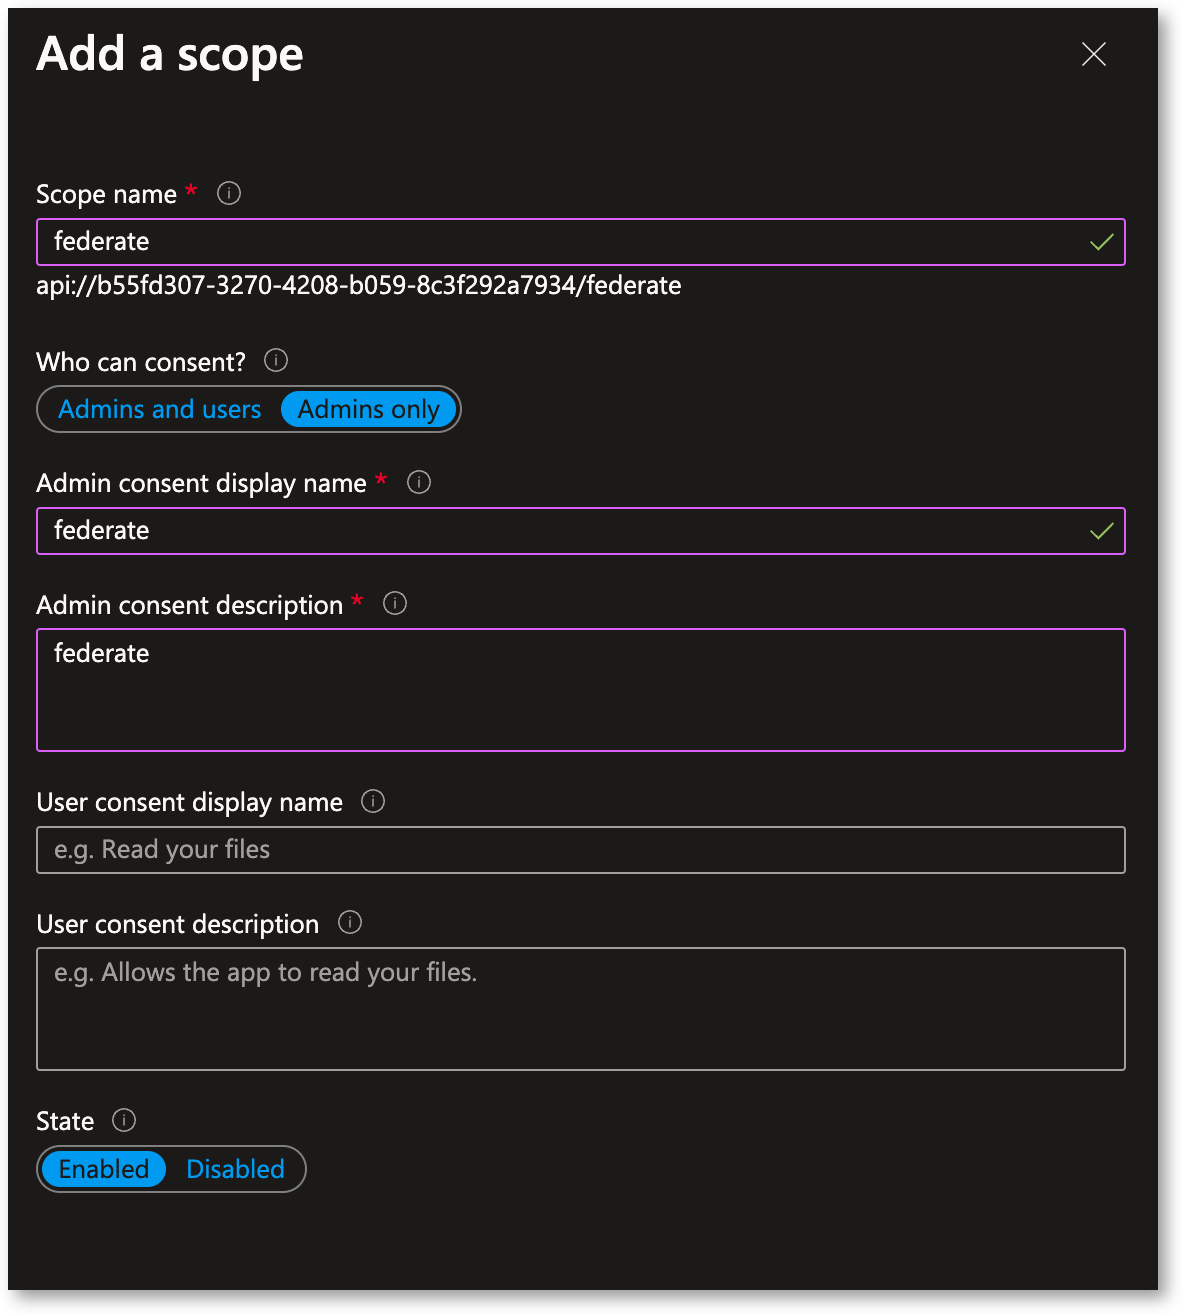
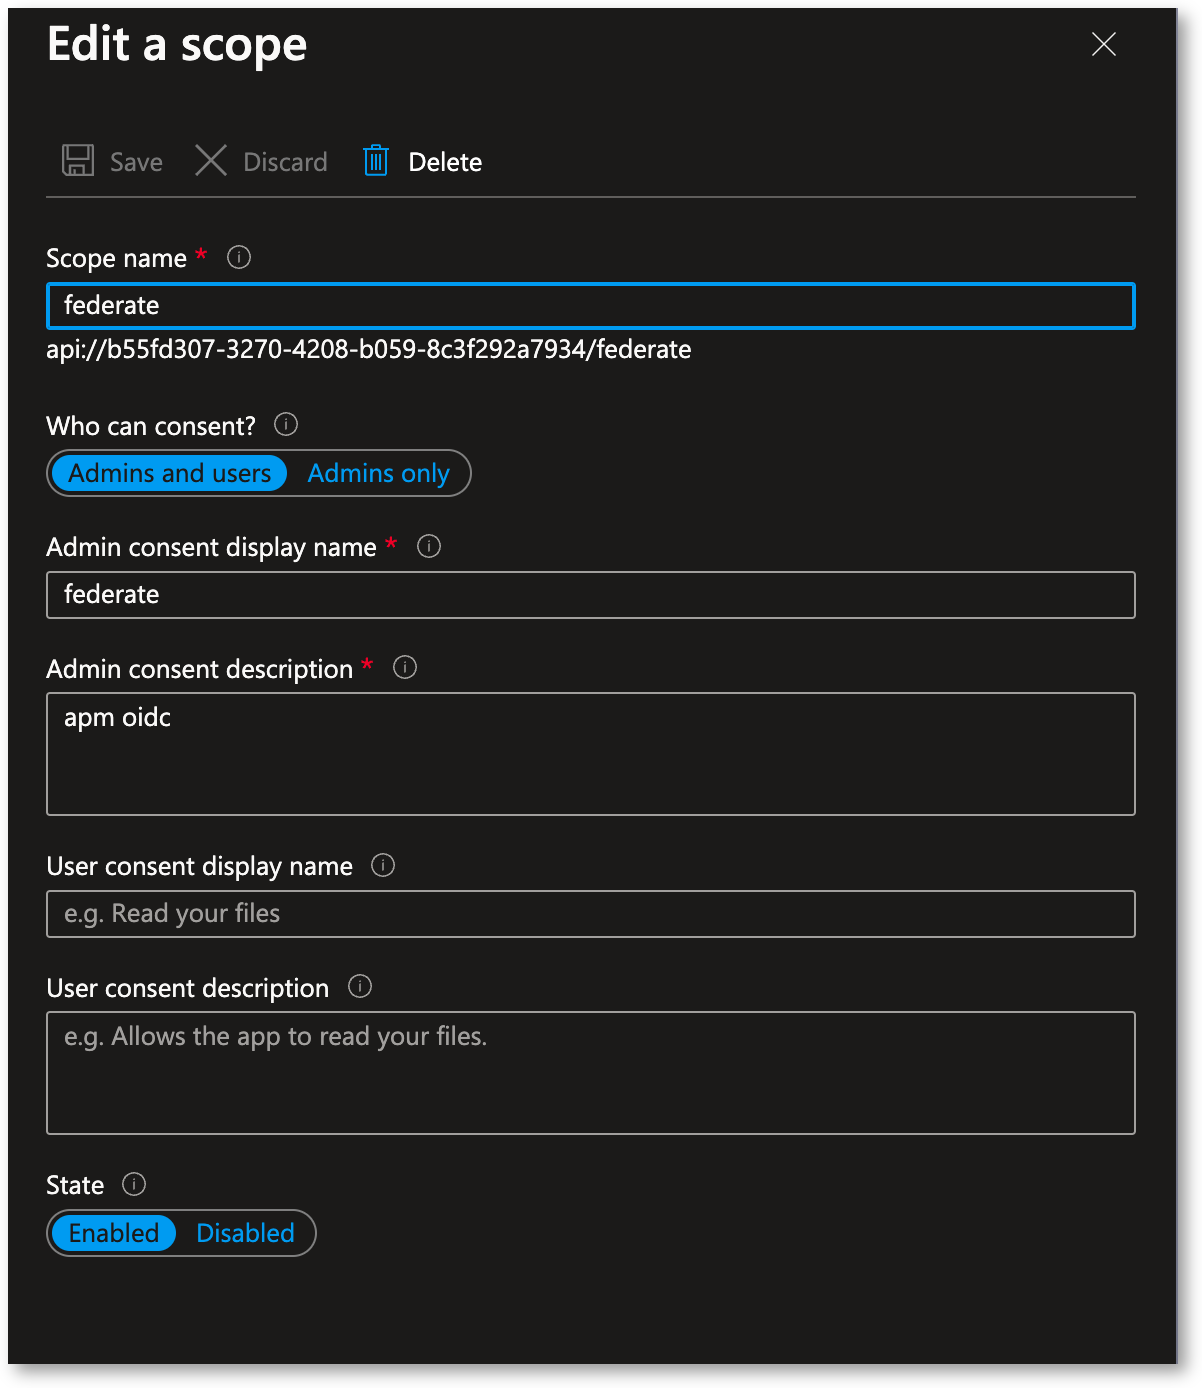
scope

diff --git a/docs/module1/lab1/lab1.rst b/docs/module1/lab1/lab1.rst
@@ -62,8 +62,12 @@ Configure your Entra ID app
 
 * In Expose an API, check the Application ID URI exists, else click ``Add`` and save.
 * Click ``Add a scope``, and create a scope with a name such as ``federate``
-* 
+  
   * This scope will used by APM
+
+    .. image:: ../pictures/lab1/scope.png
+       :align: center
+       :scale: 70%
 
     .. image:: ../pictures/lab1/expose-api.png
        :align: center
